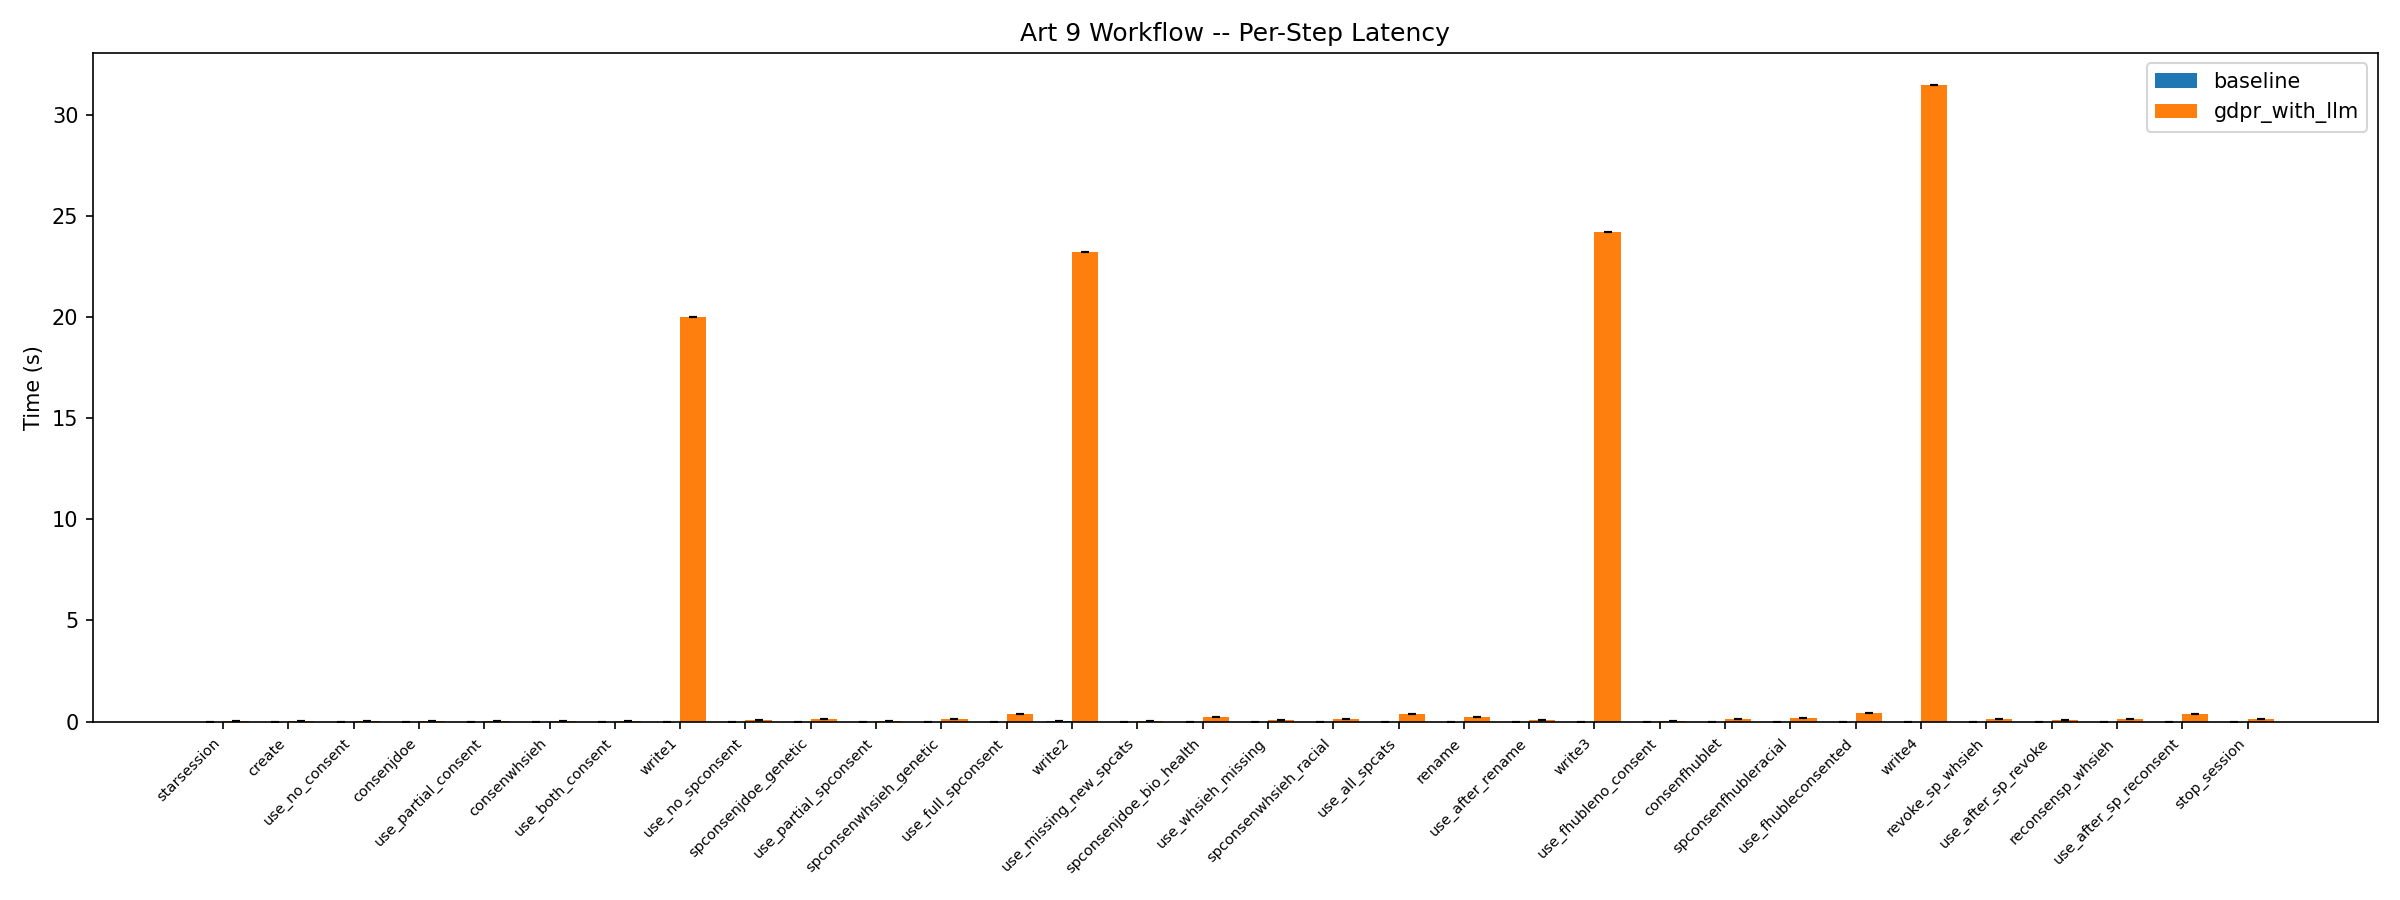
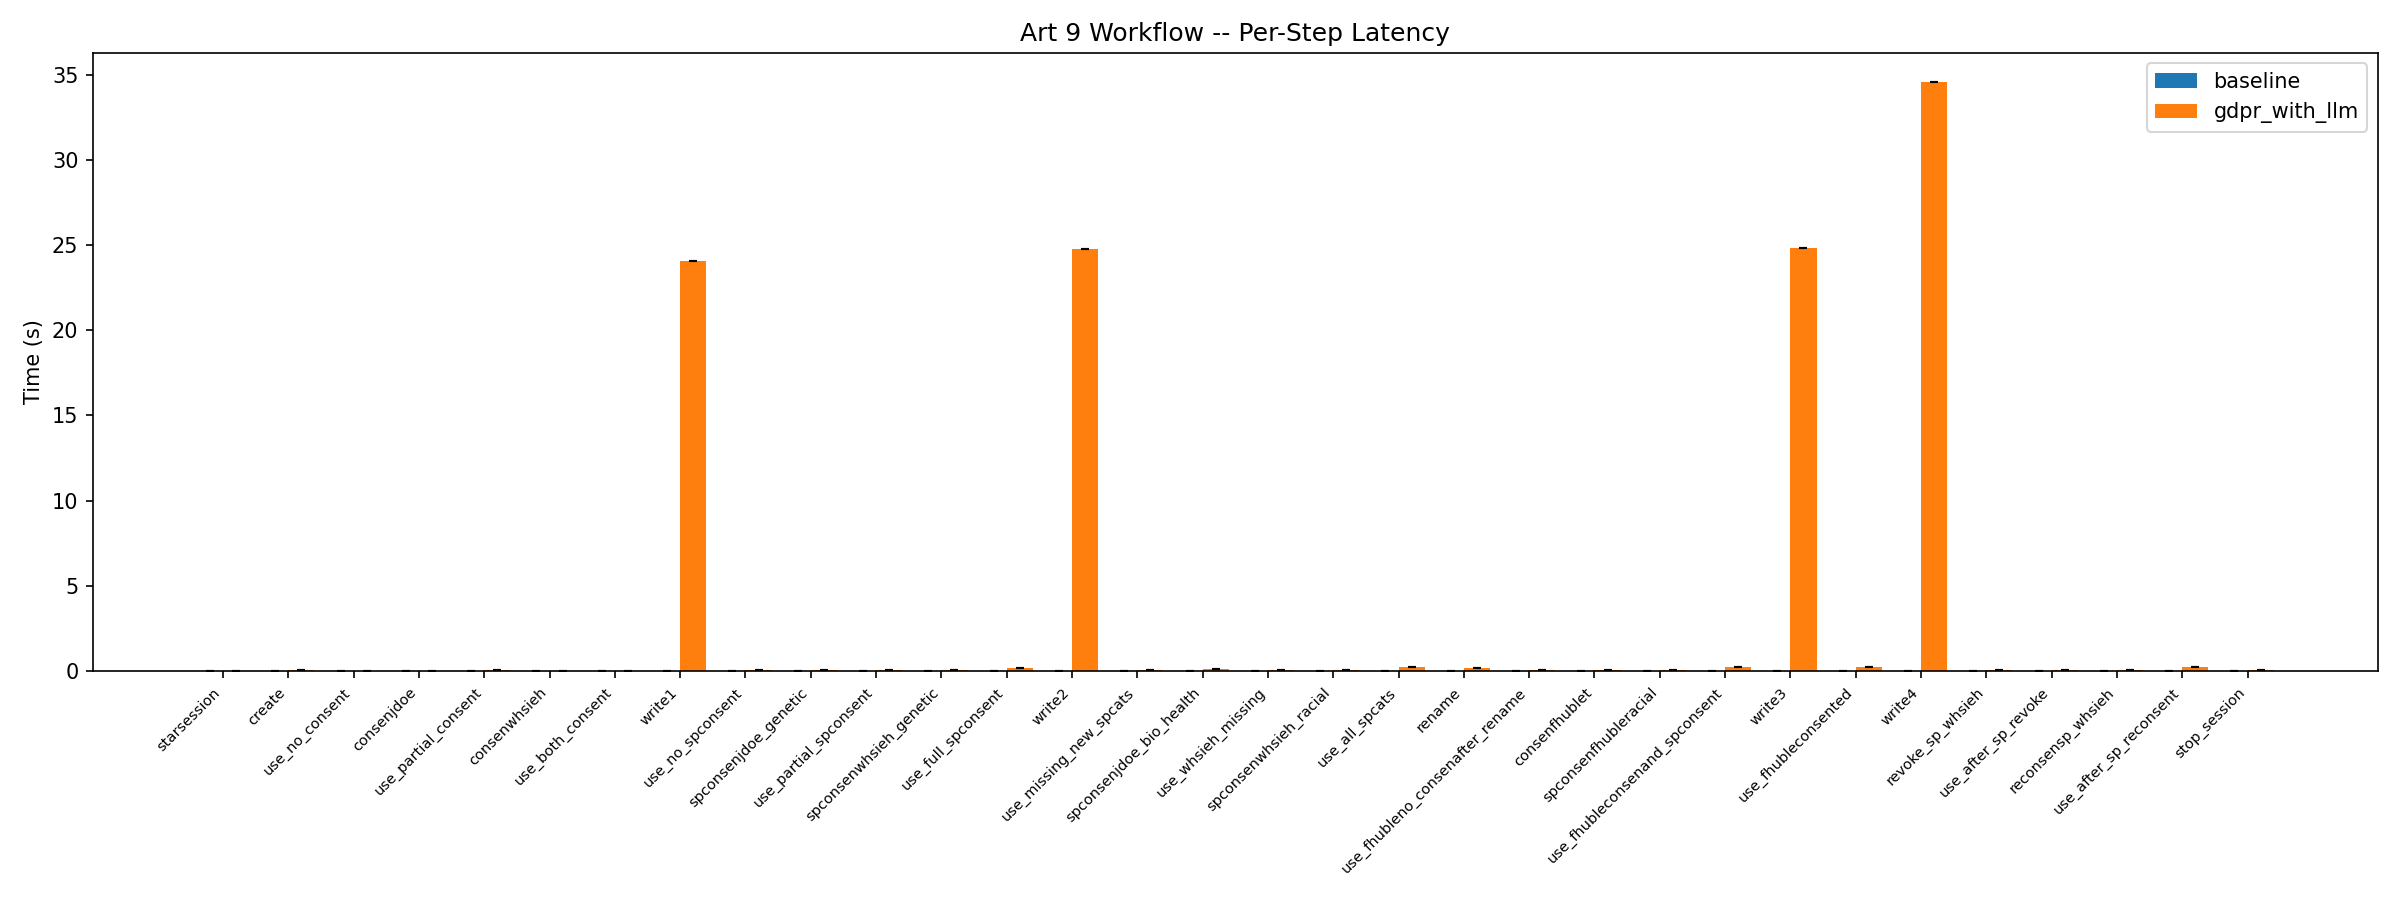
[art9 workflow1.5] logic, so workflow change: now correct logic and workflow

diff --git a/benchmark/art9_perf_test.py b/benchmark/art9_perf_test.py
@@ -378,23 +378,23 @@ class BaselineWorkflow:
             t23 = time.perf_counter()
             with open(f2, "rb") as f:
                 f.read()
-            t_use_after_rename = time.perf_counter() - t23
+            t_use_fhublet_no_consent_after_rename = time.perf_counter() - t23
 
-            # Step 24: Write TEXT_CONTENT_3
-            t24 = time.perf_counter()
-            with open(f2, "w") as f:
-                f.write(TEXT_CONTENT_3)
-            t_write3 = time.perf_counter() - t24
+            # Steps 24-25: Consent fhublet (no-op)
+            t_consent_fhublet = 0.0
+            t_spconsent_fhublet_racial = 0.0
 
-            # Step 26: Read
+            # Step 26: Read renamed file
             t26 = time.perf_counter()
             with open(f2, "rb") as f:
                 f.read()
-            t_use_fhublet_no_consent = time.perf_counter() - t26
+            t_use_fhublet_consent_and_spconsent = time.perf_counter() - t26
 
-            # Steps 27-28: Consent fhublet (no-op)
-            t_consent_fhublet = 0.0
-            t_spconsent_fhublet_racial = 0.0
+            # Step 28: Write TEXT_CONTENT_3
+            t28 = time.perf_counter()
+            with open(f2, "w") as f:
+                f.write(TEXT_CONTENT_3)
+            t_write3 = time.perf_counter() - t28
 
             # Step 29: Read
             t29 = time.perf_counter()
@@ -447,11 +447,11 @@ class BaselineWorkflow:
             "t_spconsent_whsieh_racial": t_spconsent_whsieh_racial,
             "t_use_all_spcats": t_use_all_spcats,
             "t_rename": t_rename,
-            "t_use_after_rename": t_use_after_rename,
-            "t_write3": t_write3,
-            "t_use_fhublet_no_consent": t_use_fhublet_no_consent,
+            "t_use_fhublet_no_consent_after_rename": t_use_fhublet_no_consent_after_rename,
             "t_consent_fhublet": t_consent_fhublet,
             "t_spconsent_fhublet_racial": t_spconsent_fhublet_racial,
+            "t_use_fhublet_consent_and_spconsent": t_use_fhublet_consent_and_spconsent,
+            "t_write3": t_write3,
             "t_use_fhublet_consented": t_use_fhublet_consented,
             "t_write4": t_write4,
             "t_revoke_sp_whsieh": t_revoke_sp_whsieh,
@@ -654,95 +654,95 @@ class GDPRWorkflow:
         os.rename(str(f1), str(f2))
         t_rename = time.perf_counter() - t22
 
-        # Step 23: Read renamed file — Use+SpecialData logged
+        # Step 23: Read — fhublet lacks consent + racial_ethnic spConsent → REDACTED
         t23 = time.perf_counter()
         with open(f2, "rb") as f:
             content = f.read()
-        t_use_after_rename = time.perf_counter() - t23
-        print(f"        [Step 23] Content after rename: {content[:80]!r}") #todo: should be real content, but why REDACTED?
+        t_use_fhublet_no_consent_after_rename = time.perf_counter() - t23
+        assert content == b"REDACTED", (
+            f"Step 23: expected REDACTED (fhublet no consent), got {content[:50]!r}"
+        )
 
-        # Step 24: Write TEXT_CONTENT_3 via temp+rename (LLM detects fhublet+racial_ethnic)
-        t24 = time.perf_counter()
+        # Step 25: fhublet Consent
+        t25 = time.perf_counter()
+        fuse_ingest("Consent", uid="fhublet", purpose="marketing")
+        update_consent_db("fhublet", "marketing", "consented")
+        t_consent_fhublet = time.perf_counter() - t25
+
+        # Step 26: fhublet SpecialConsent racial_ethnic
+        t26 = time.perf_counter()
+        fuse_ingest("SpecialConsent", uid="fhublet", purpose="marketing", spCat="racial_ethnic")
+        update_special_consent_db("fhublet", "marketing", "racial_ethnic", "special_consented")
+        t_spconsent_fhublet_racial = time.perf_counter() - t26
+
+        # Step 27: Read renamed file — Use+SpecialData logged
+        t27 = time.perf_counter()
+        with open(f2, "rb") as f:
+            content = f.read()
+        t_use_fhublet_consent_and_spconsent = time.perf_counter() - t27
+        print(f"        [Step 27] Content after rename: {content[:80]!r}") 
+
+        # Step 28: Write TEXT_CONTENT_3 via temp+rename (LLM detects fhublet+racial_ethnic)
+        t28 = time.perf_counter()
         _write_via_temp_rename(f2, TEXT_CONTENT_3.encode())
         if self.with_llm:
             time.sleep(2)
-        t_write3 = time.perf_counter() - t24
+        t_write3 = time.perf_counter() - t28
 
-        # Step 26: Read — fhublet lacks consent + racial_ethnic spConsent → REDACTED
-        t26 = time.perf_counter()
+        # Step 30: Read — all consented → real content
+        t30 = time.perf_counter()
         with open(f2, "rb") as f:
             content = f.read()
-        t_use_fhublet_no_consent = time.perf_counter() - t26
-        assert content == b"REDACTED", (
-            f"Step 26: expected REDACTED (fhublet no consent), got {content[:50]!r}"
-        )
-
-        # Step 27: fhublet Consent
-        t27 = time.perf_counter()
-        fuse_ingest("Consent", uid="fhublet", purpose="marketing")
-        update_consent_db("fhublet", "marketing", "consented")
-        t_consent_fhublet = time.perf_counter() - t27
-
-        # Step 28: fhublet SpecialConsent racial_ethnic
-        t28 = time.perf_counter()
-        fuse_ingest("SpecialConsent", uid="fhublet", purpose="marketing", spCat="racial_ethnic")
-        update_special_consent_db("fhublet", "marketing", "racial_ethnic", "special_consented")
-        t_spconsent_fhublet_racial = time.perf_counter() - t28
-
-        # Step 29: Read — all consented → real content
-        t29 = time.perf_counter()
-        with open(f2, "rb") as f:
-            content = f.read()
-        t_use_fhublet_consented = time.perf_counter() - t29
+        t_use_fhublet_consented = time.perf_counter() - t30
         if self.with_llm:
             assert content == TEXT_CONTENT_3.encode(), (
-                f"Step 29: expected TEXT_CONTENT_3, got {content[:80]!r}"
+                f"Step 30: expected TEXT_CONTENT_3, got {content[:80]!r}"
             )
-        print(f"        [Step 29] Content: {content[:80]!r}")
+        print(f"        [Step 30] Content: {content[:80]!r}")
 
-        # Step 30: Write TEXT_CONTENT_3_MODIFIED (add ":D")
-        t30 = time.perf_counter()
+        # Step 31: Write TEXT_CONTENT_3_MODIFIED (add ":D")
+        t31 = time.perf_counter()
         _write_via_temp_rename(f2, TEXT_CONTENT_3_MODIFIED.encode())
         if self.with_llm:
             time.sleep(2)
-        t_write4 = time.perf_counter() - t30
+        t_write4 = time.perf_counter() - t31
 
-        # Step 32: whsieh RevokeSpecialConsent genetic
-        t32 = time.perf_counter()
+        # Step 33: whsieh RevokeSpecialConsent genetic
+        t33 = time.perf_counter()
         fuse_ingest("RevokeSpecialConsent", uid="whsieh", purpose="marketing", spCat="genetic")
         update_special_consent_db("whsieh", "marketing", "genetic", "special_revoked")
-        t_revoke_sp_whsieh = time.perf_counter() - t32
+        t_revoke_sp_whsieh = time.perf_counter() - t33
 
-        # Step 33: Read — whsieh lacks genetic → REDACTED
-        t33 = time.perf_counter()
+        # Step 34: Read — whsieh lacks genetic → REDACTED
+        t34 = time.perf_counter()
         with open(f2, "rb") as f:
             content = f.read()
-        t_use_after_sp_revoke = time.perf_counter() - t33
+        t_use_after_sp_revoke = time.perf_counter() - t34
         assert content == b"REDACTED", (
-            f"Step 33: expected REDACTED (whsieh genetic revoked), got {content[:50]!r}"
+            f"Step 34: expected REDACTED (whsieh genetic revoked), got {content[:50]!r}"
         )
 
-        # Step 34: whsieh SpecialConsent genetic (re-consent)
-        t34 = time.perf_counter()
+        # Step 35: whsieh SpecialConsent genetic (re-consent)
+        t35 = time.perf_counter()
         fuse_ingest("SpecialConsent", uid="whsieh", purpose="marketing", spCat="genetic")
         update_special_consent_db("whsieh", "marketing", "genetic", "special_consented")
-        t_reconsent_sp_whsieh = time.perf_counter() - t34
+        t_reconsent_sp_whsieh = time.perf_counter() - t35
 
-        # Step 35: Read — all consented again → real content
-        t35 = time.perf_counter()
+        # Step 36: Read — all consented again → real content
+        t36 = time.perf_counter()
         with open(f2, "rb") as f:
             content = f.read()
-        t_use_after_sp_reconsent = time.perf_counter() - t35
+        t_use_after_sp_reconsent = time.perf_counter() - t36
         if self.with_llm:
             assert content == TEXT_CONTENT_3_MODIFIED.encode(), (
-                f"Step 35: expected TEXT_CONTENT_3_MODIFIED, got {content[:80]!r}"
+                f"Step 36: expected TEXT_CONTENT_3_MODIFIED, got {content[:80]!r}"
             )
-        print(f"        [Step 35] Content: {content[:80]!r}")
+        print(f"        [Step 36] Content: {content[:80]!r}")
 
-        # Step 36: StopSession
-        t36 = time.perf_counter()
+        # Step 37: StopSession
+        t37 = time.perf_counter()
         fuse_ingest("StopSession", uid="achao")
-        t_stop_session = time.perf_counter() - t36
+        t_stop_session = time.perf_counter() - t37
 
         t_total = time.perf_counter() - t0
 
@@ -767,11 +767,11 @@ class GDPRWorkflow:
             "t_spconsent_whsieh_racial": t_spconsent_whsieh_racial,
             "t_use_all_spcats": t_use_all_spcats,
             "t_rename": t_rename,
-            "t_use_after_rename": t_use_after_rename,
-            "t_write3": t_write3,
-            "t_use_fhublet_no_consent": t_use_fhublet_no_consent,
+            "t_use_fhublet_no_consent_after_rename": t_use_fhublet_no_consent_after_rename,
             "t_consent_fhublet": t_consent_fhublet,
             "t_spconsent_fhublet_racial": t_spconsent_fhublet_racial,
+            "t_use_fhublet_consent_and_spconsent": t_use_fhublet_consent_and_spconsent,
+            "t_write3": t_write3,
             "t_use_fhublet_consented": t_use_fhublet_consented,
             "t_write4": t_write4,
             "t_revoke_sp_whsieh": t_revoke_sp_whsieh,
@@ -833,9 +833,10 @@ class BenchmarkReporter:
         "t_spconsent_jdoe_bio_health", "t_use_whsieh_missing",
         "t_spconsent_whsieh_racial", "t_use_all_spcats",
         "t_rename",
-        "t_use_after_rename",
-        "t_write3", "t_use_fhublet_no_consent",
+        "t_use_fhublet_no_consent_after_rename",
         "t_consent_fhublet", "t_spconsent_fhublet_racial",
+        "t_use_fhublet_consent_and_spconsent",
+        "t_write3",
         "t_use_fhublet_consented",
         "t_write4",
         "t_revoke_sp_whsieh", "t_use_after_sp_revoke",
